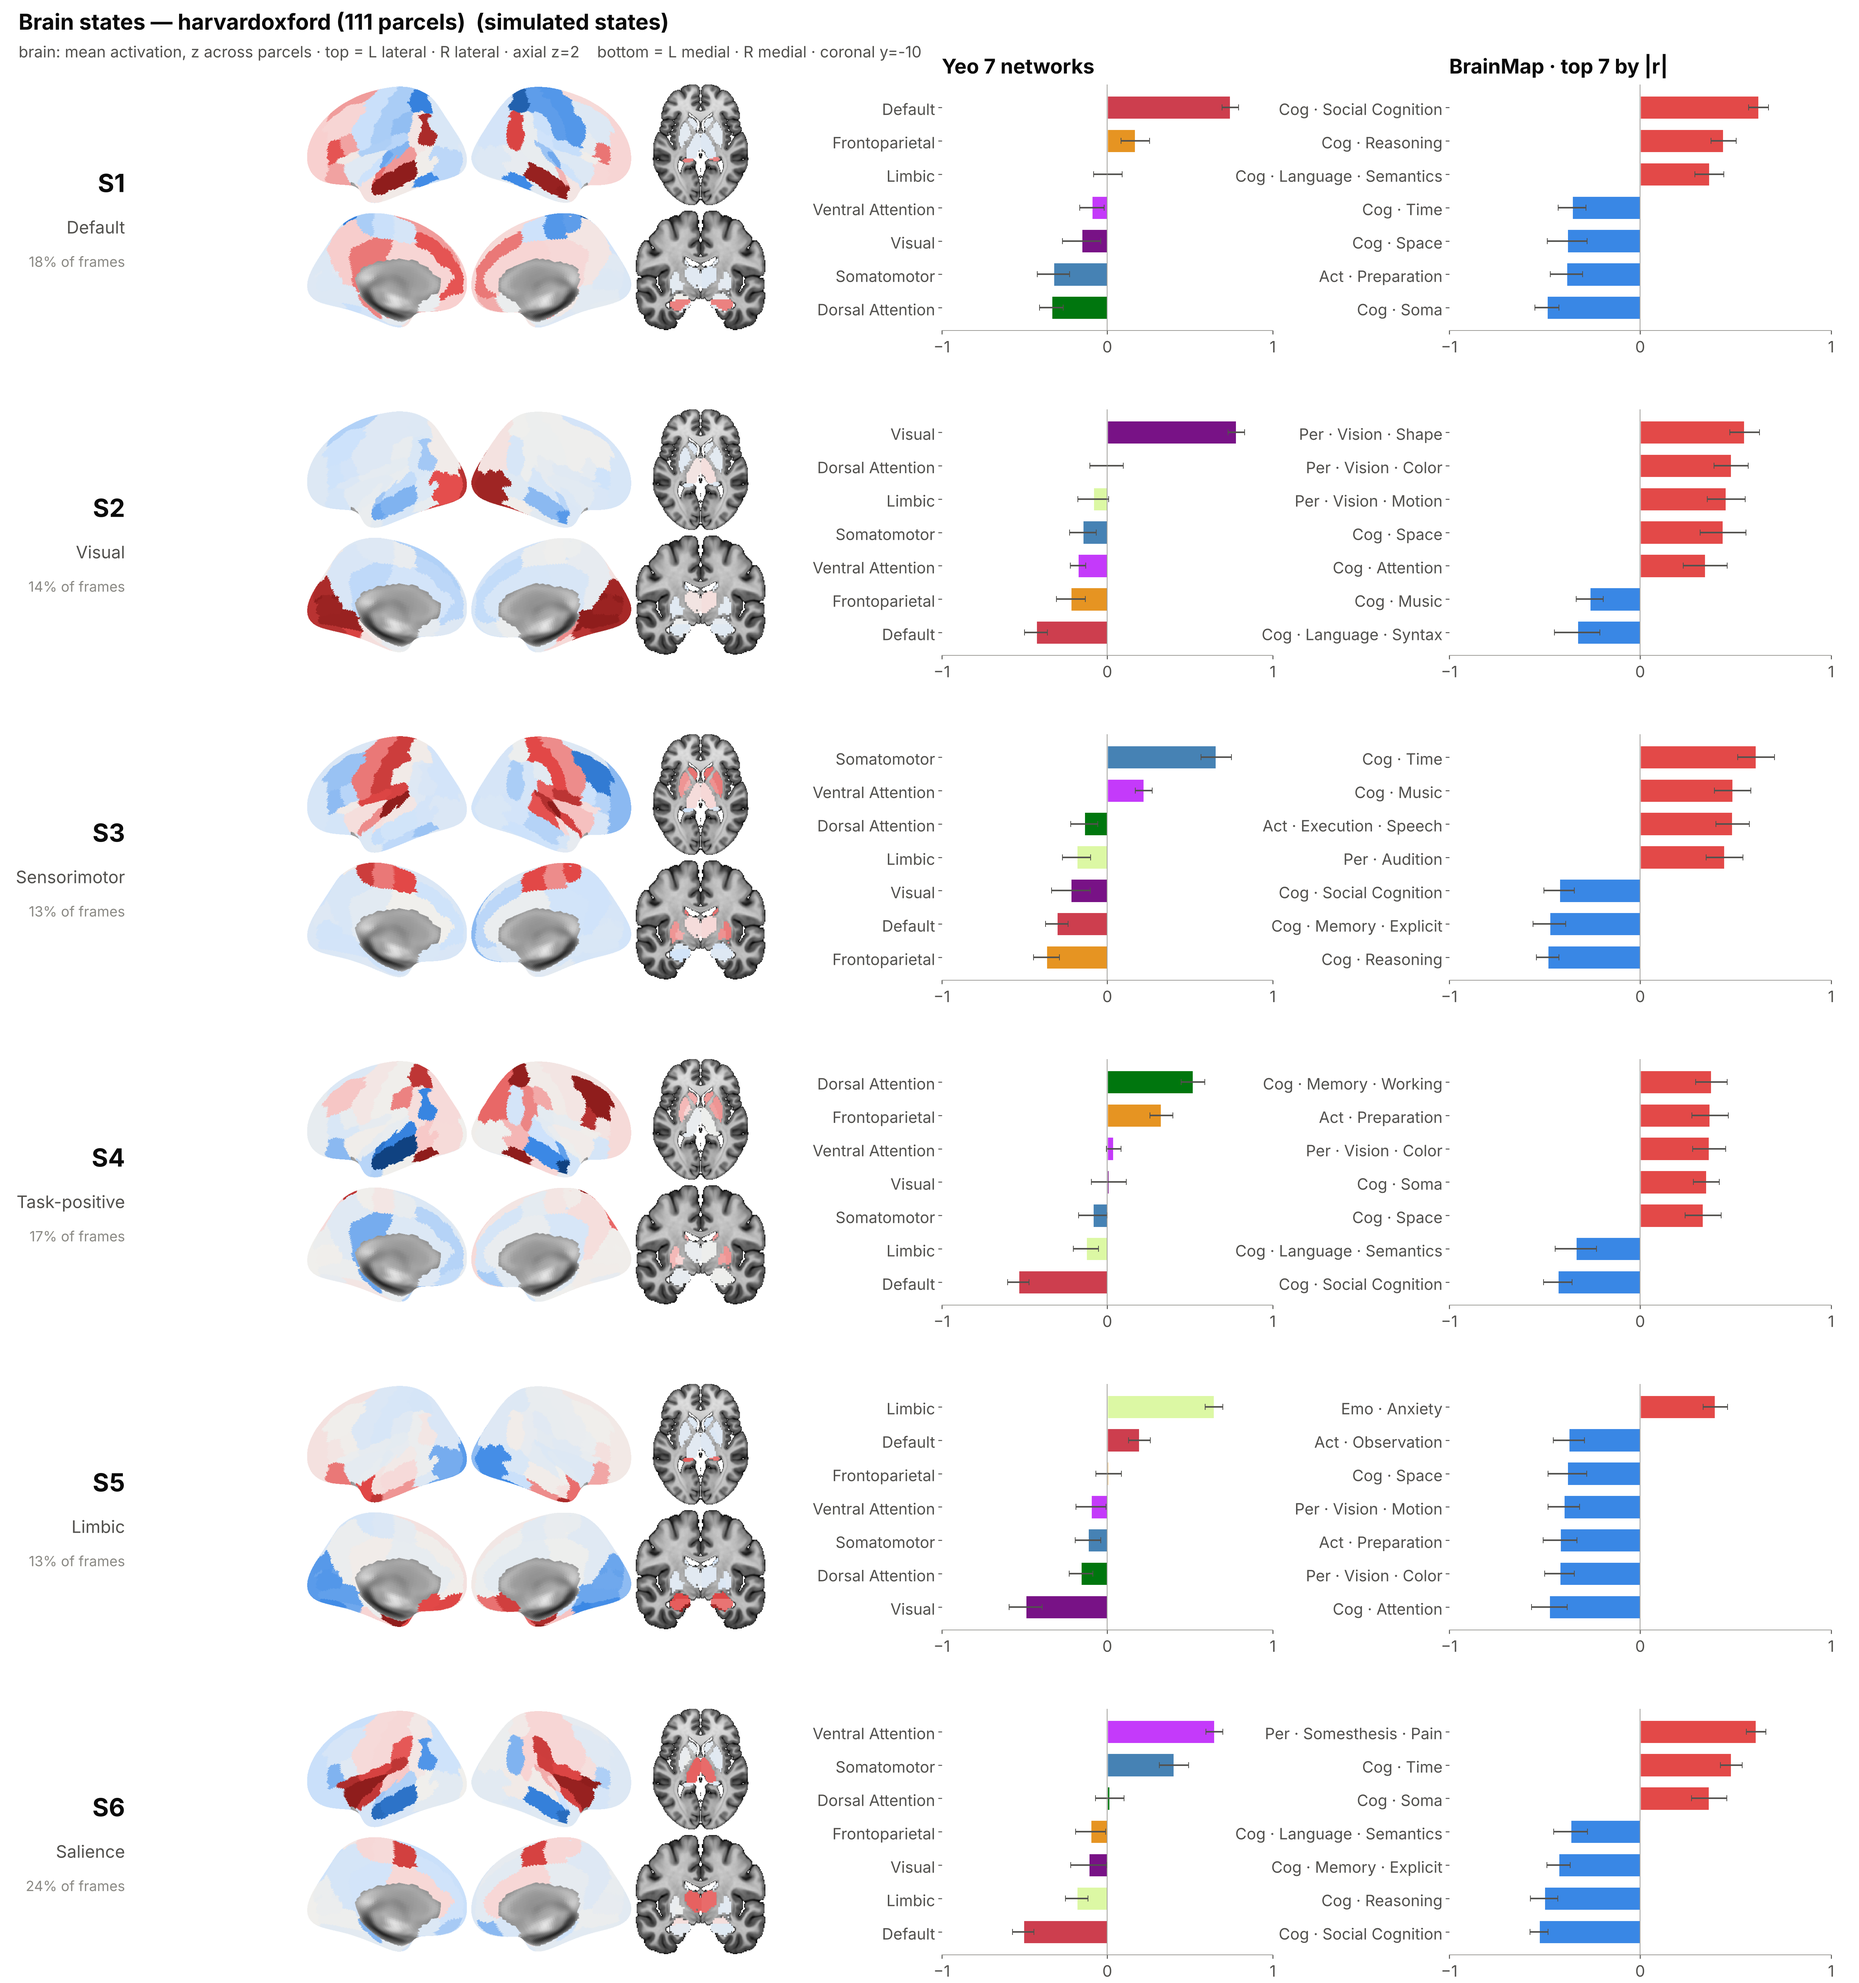
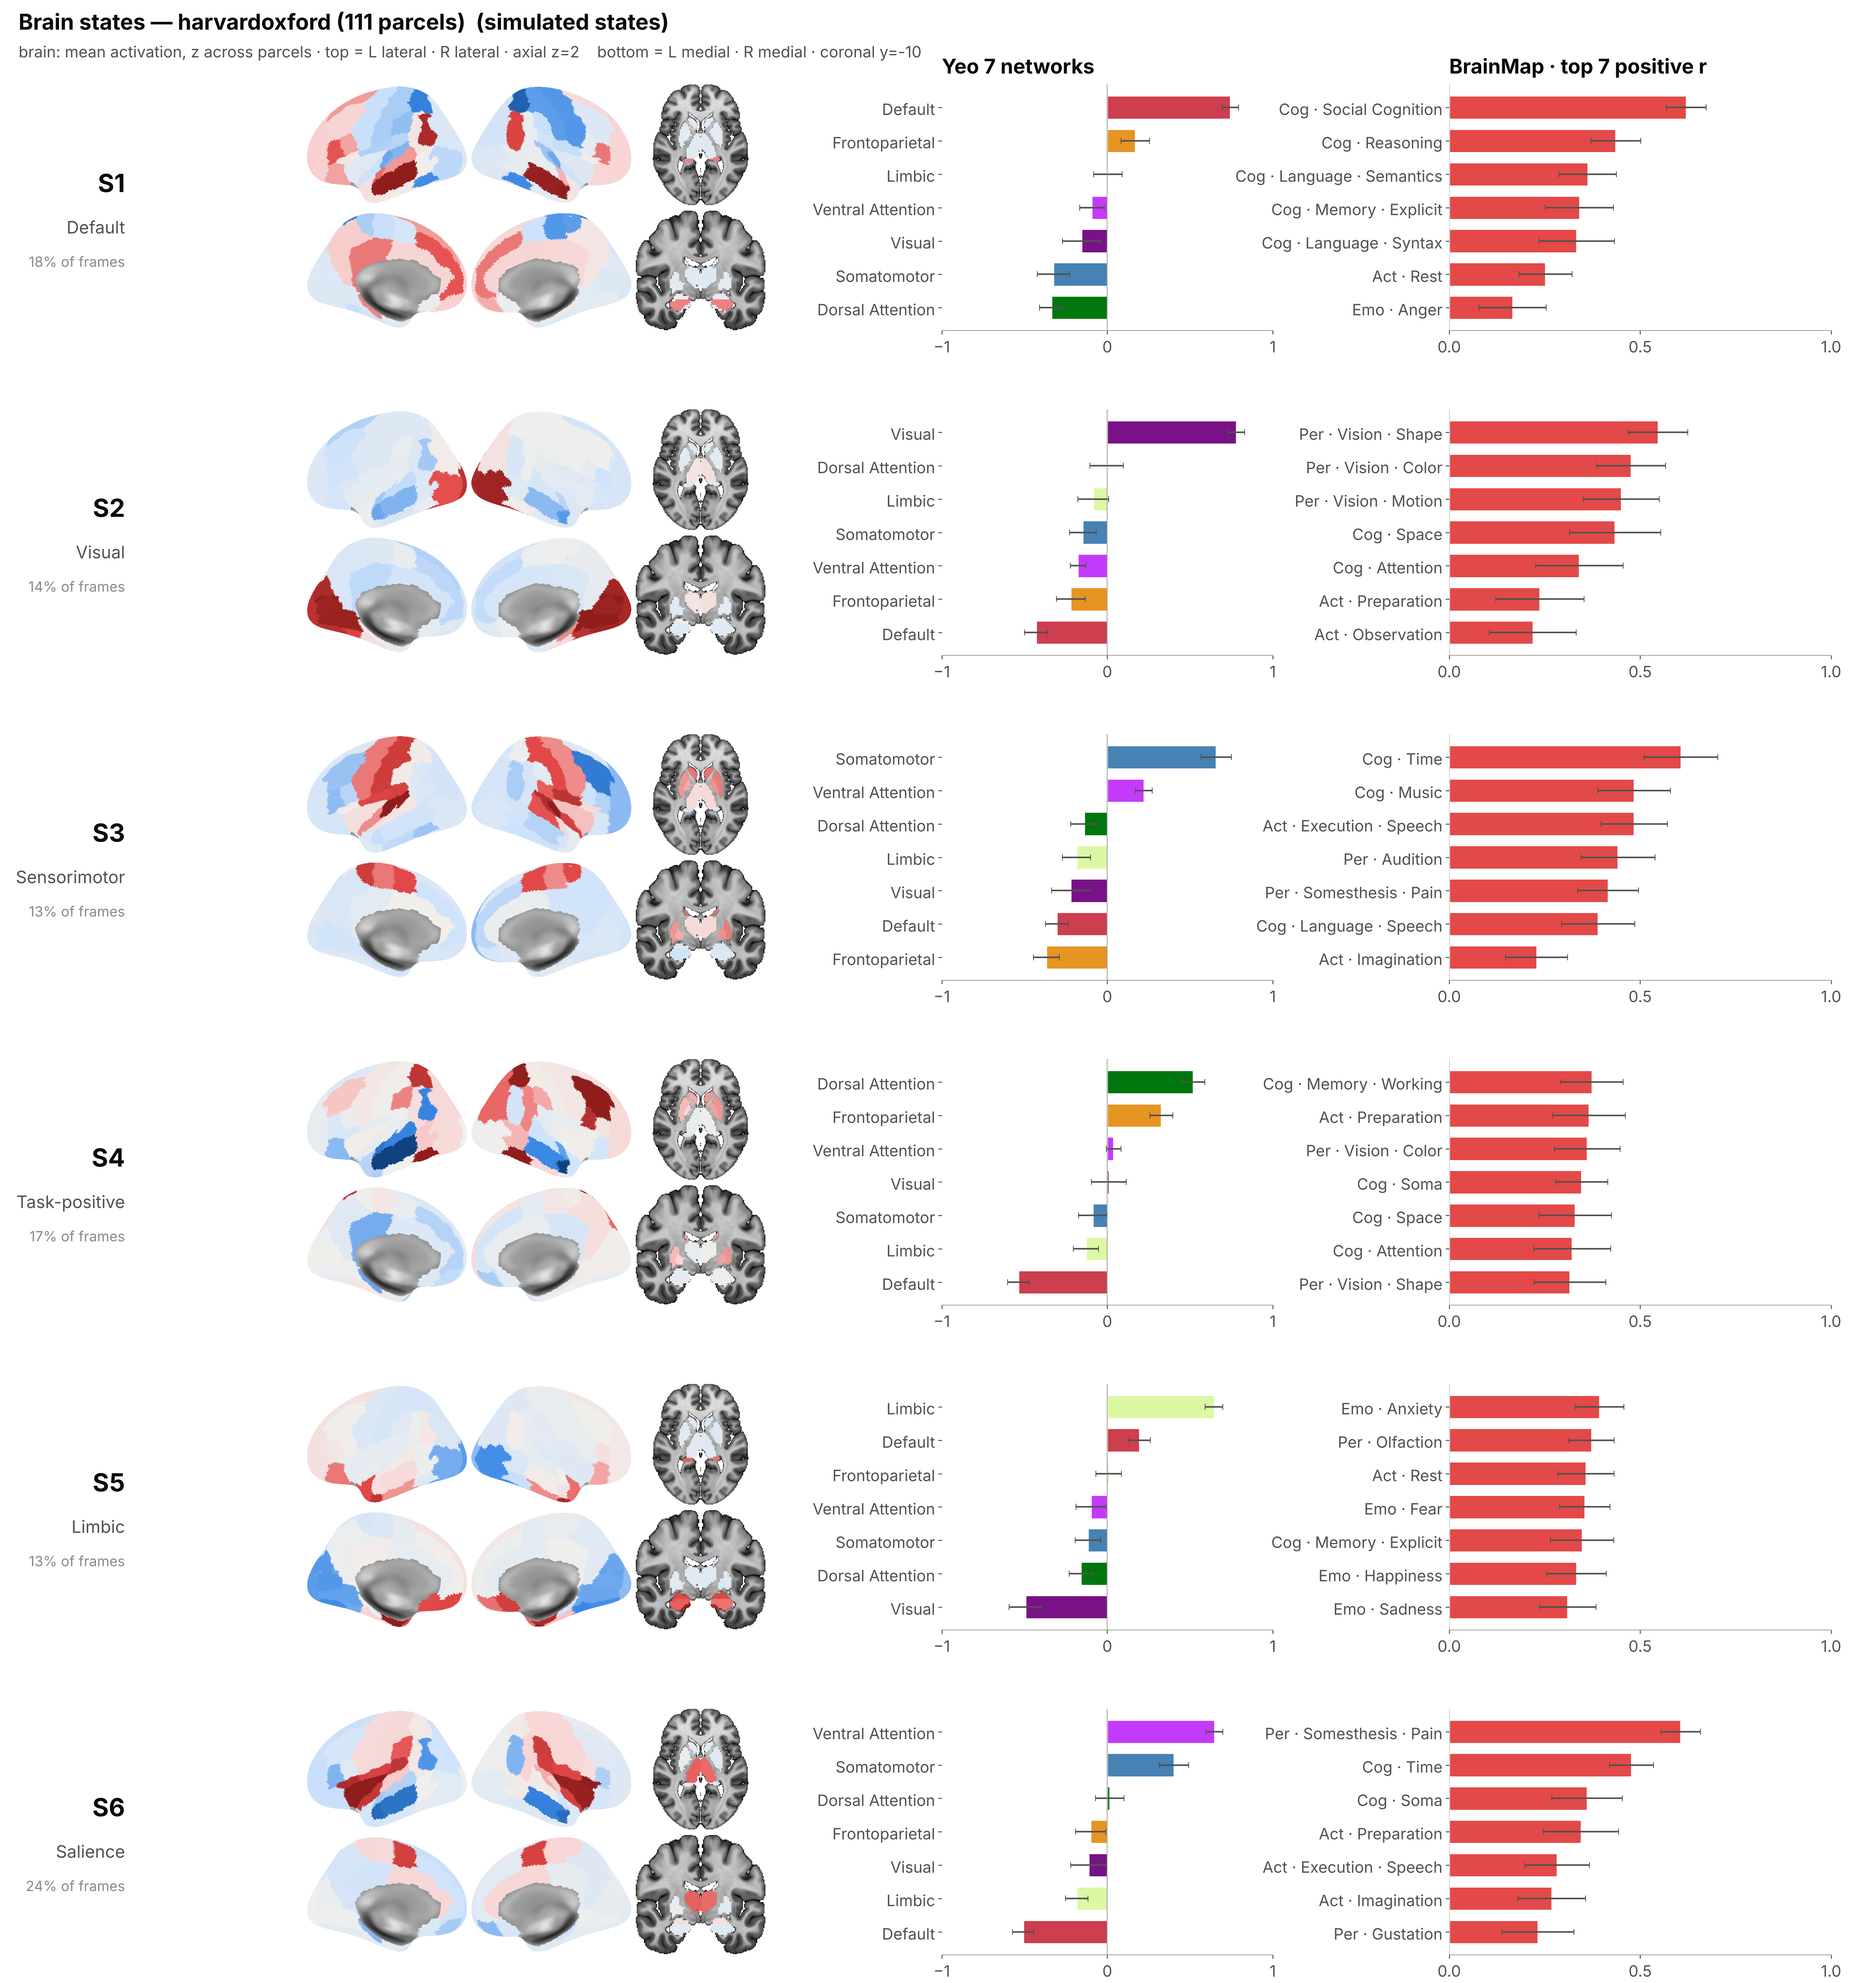
state maps: POSITIVE_ONLY -- panels that show only positive r (default: BrainMap)
Claude-Session: https://claude.ai/code/session_01WwJFUqR8FCyHPQsXaK114r

diff --git a/notebooks/state_figures.py b/notebooks/state_figures.py
@@ -378,7 +378,7 @@ def _label(name: str, fam: str) -> str:
 
 def states_figure(atlas, sm, names, results, brains, out: Path, *, panels=("yeo7", "behavioural"),
                   top=7, subjects: pd.DataFrame | None = None, measure="mean activation",
-                  title_note=""):
+                  title_note="", positive_only=()):
     """One row per state: brain in 2 x 3 (L lat · R lat · axial / L med · R med ·
     coronal), then one ranked bar chart per panel family. Bars are the mean r
     over subjects with +-SD when per-subject correlations exist, else the
@@ -429,6 +429,9 @@ def states_figure(atlas, sm, names, results, brains, out: Path, *, panels=("yeo7
             else:
                 m, sd = res["r"][i].astype(float), None
             m = np.where([n.endswith(".Other") for n in nm], np.nan, m)
+            pos = fam in positive_only
+            if pos:                          # only what the state is associated WITH
+                m = np.where(m > 0, m, np.nan)
             k = min(top, int(np.isfinite(m).sum())) if fam != "yeo7" else len(nm)
             order = np.argsort(-np.nan_to_num(np.abs(m), nan=-1))[:k]
             order = order[np.argsort(-m[order])]
@@ -448,10 +451,13 @@ def states_figure(atlas, sm, names, results, brains, out: Path, *, panels=("yeo7
             for sp in ("top", "right", "left"):
                 ax.spines[sp].set_visible(False)
             ax.spines["bottom"].set_color(MUTED)
+            if pos:
+                ax.set_xlim(0, 1)
+                ax.set_xticks([0, 0.5, 1])
             if i == 0:
                 title = PANEL_TITLES[fam].format(tax=taxonomy_label(res))
                 if fam != "yeo7":
-                    title += f" · top {top} by |r|"
+                    title += f" · top {top} positive r" if fam in positive_only else f" · top {top} by |r|"
                 if res["simulated"]:
                     title += " · SIMULATED"
                 ax.set_title(title, loc="left", fontsize=26, fontweight="bold",
@@ -494,7 +500,7 @@ def load_results(atlas_dir: Path, families) -> tuple[pd.DataFrame, dict, dict]:
 
 def draw(run_dir, atlases=None, families=None, bn_levels=("subcategory",), *,
          data: Path = HERE / "state_maps_data", cards: bool = False, overview: bool = False,
-         panels=("yeo7", "behavioural"), top: int = 7) -> list:
+         panels=("yeo7", "behavioural"), top: int = 7, positive_only=()) -> list:
     """Draw every atlas under `run_dir`; return the figure paths.
 
     `families` picks the non-behavioural panels; `bn_levels` ("domain",
@@ -525,6 +531,7 @@ def draw(run_dir, atlases=None, families=None, bn_levels=("subcategory",), *,
         subjects = pd.read_parquet(subj_path) if subj_path.exists() else None
         out = d / "states_figure.png"
         states_figure(atlas, sm, names, results, brains, out, panels=panels, top=top,
+                      positive_only=tuple(positive_only),
                       subjects=subjects, measure=measure,
                       title_note="  (simulated states)" if prov["states"] == "simulate" else "")
         paths.append(out)
@@ -562,12 +569,14 @@ def main(argv=None) -> int:
     p.add_argument("--panels", nargs="+", default=["yeo7", "behavioural"], choices=FAMILIES,
                    help="bar charts beside each state's brain, in order")
     p.add_argument("--top", type=int, default=7, help="bars per panel (Yeo 7 always shows 7)")
+    p.add_argument("--positive-only", nargs="*", default=[], choices=FAMILIES,
+                   help="panels that show only positive r (e.g. behavioural)")
     p.add_argument("--cards", action="store_true", help="also one card per state")
     p.add_argument("--overview", action="store_true", help="also the heat-strip overview")
     p.add_argument("--data", type=Path, default=HERE / "state_maps_data")
     a = p.parse_args(argv)
     draw(a.run_dir, a.atlases, a.families, a.bn_levels, data=a.data, cards=a.cards,
-         overview=a.overview, panels=a.panels, top=a.top)
+         overview=a.overview, panels=a.panels, top=a.top, positive_only=a.positive_only)
     return 0
 
 
